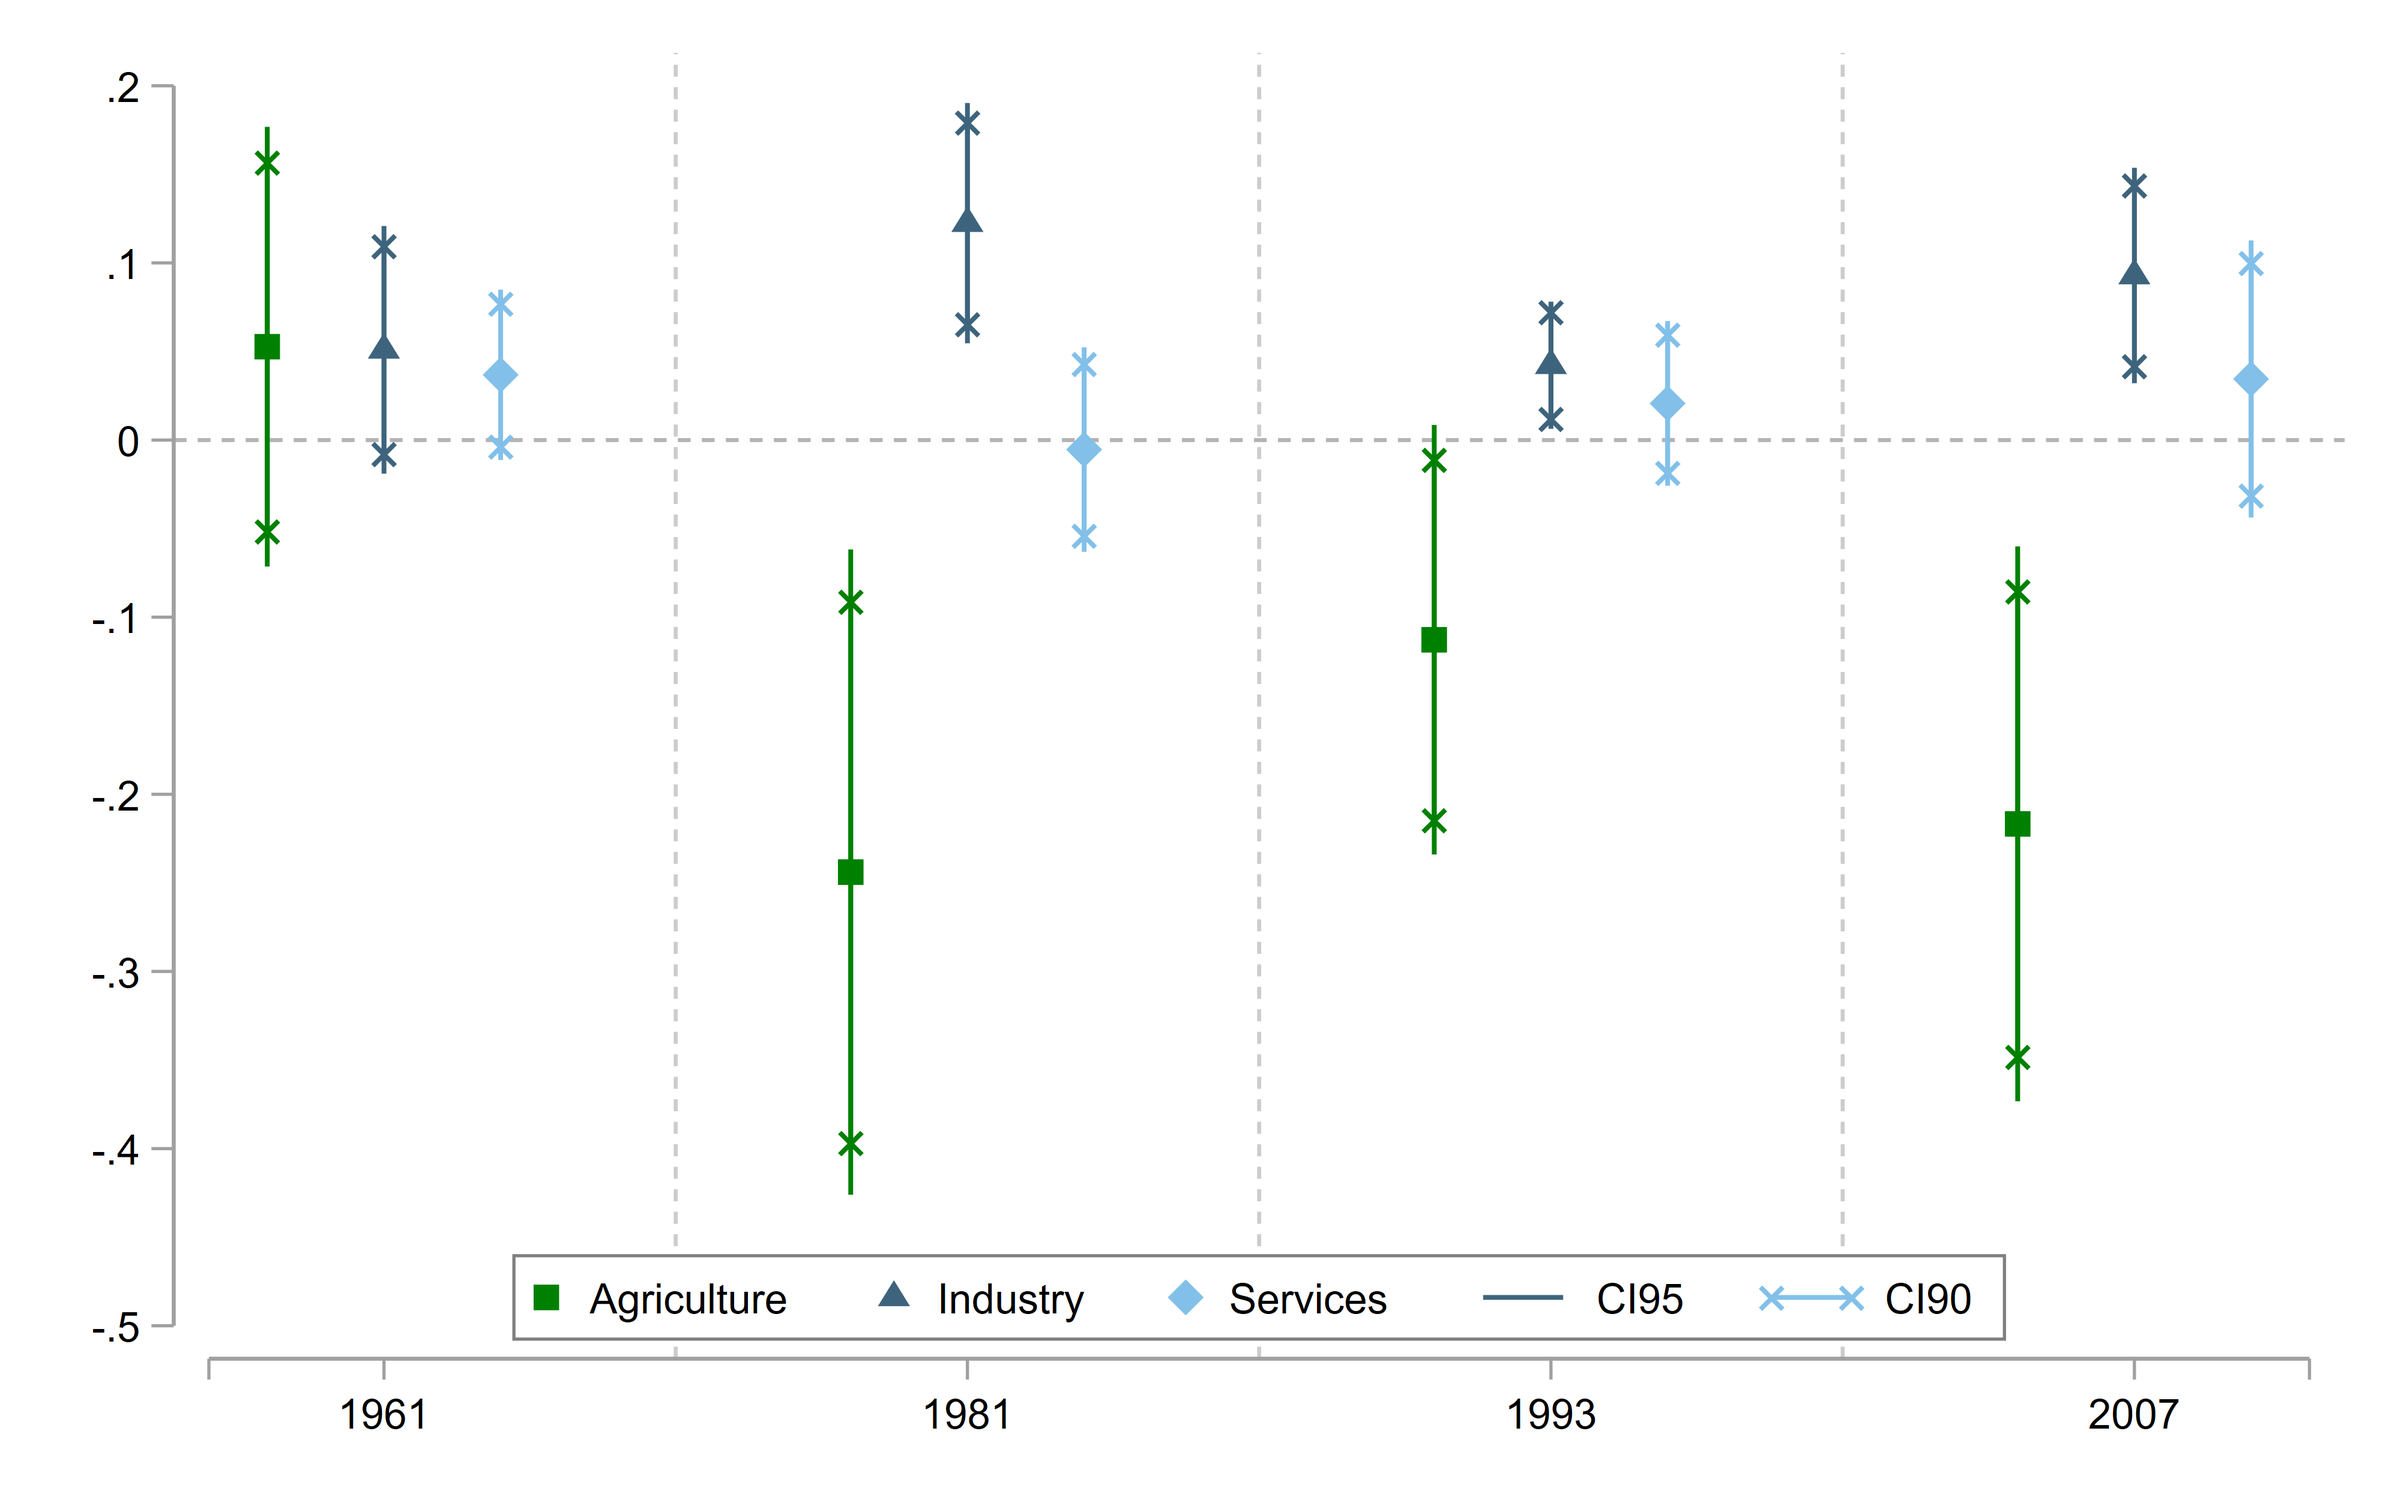
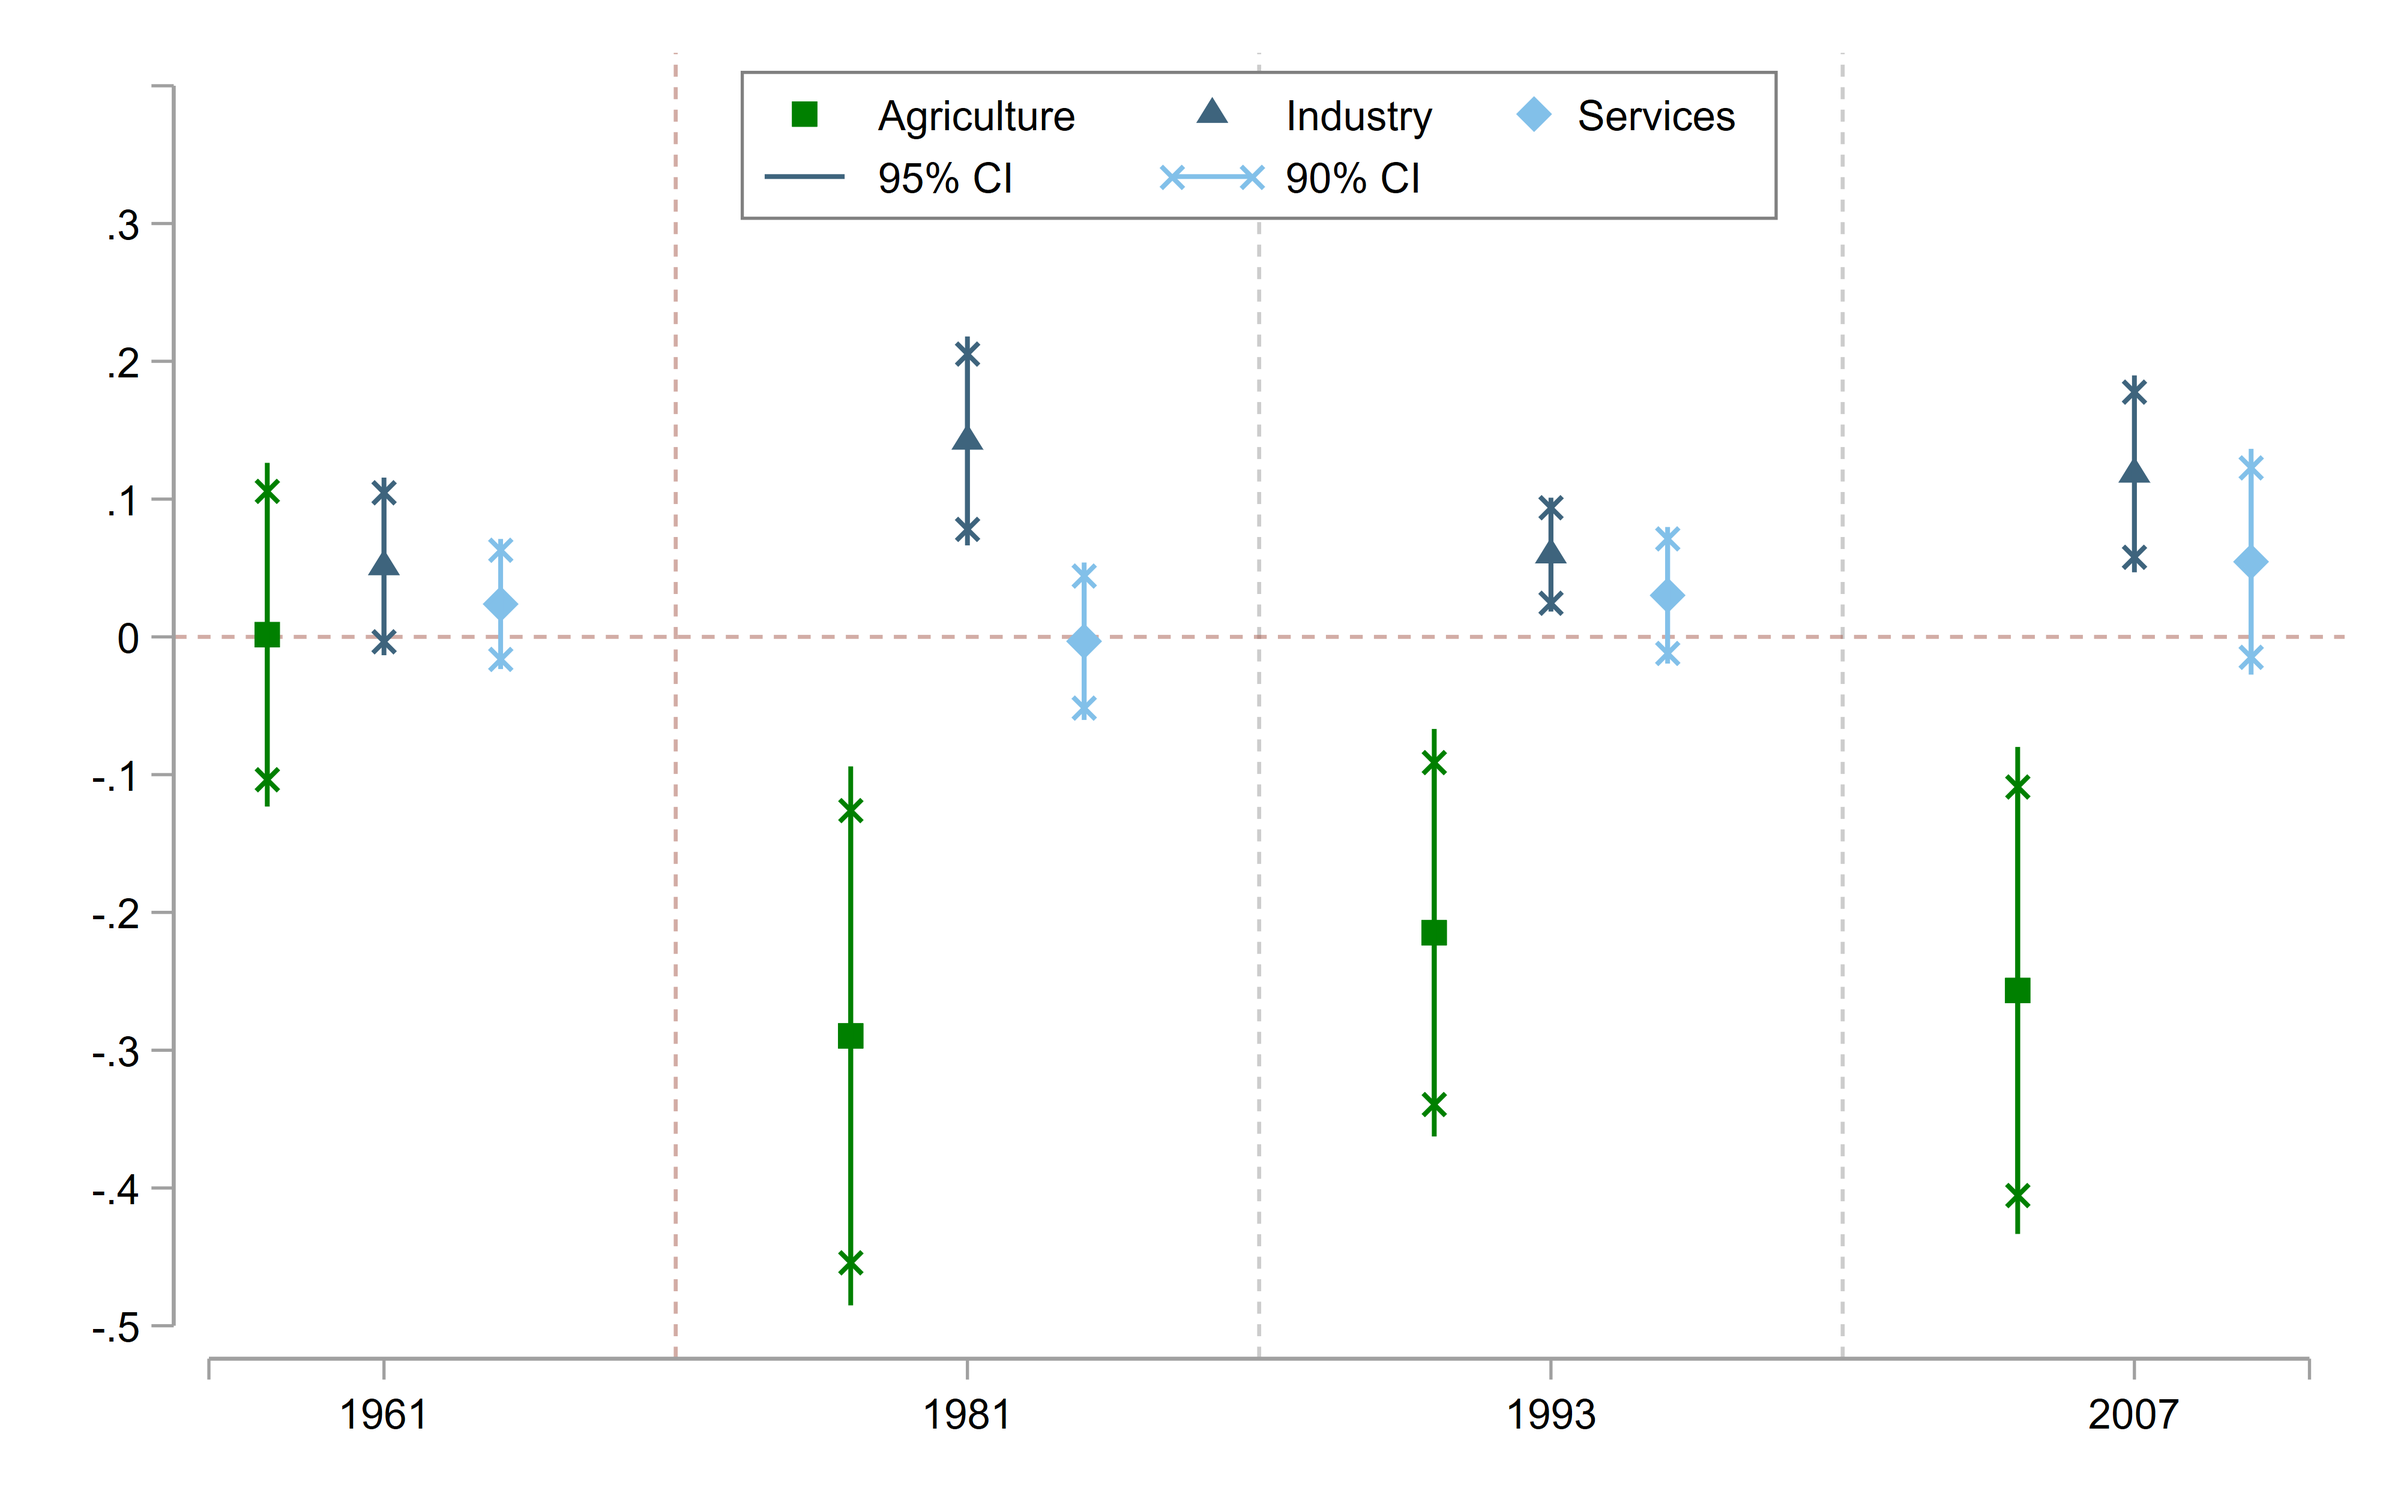
Add mining paper figures and update land reform figures

diff --git a/papers.html b/papers.html
@@ -24,36 +24,46 @@
              mines, while abroad PM2.5 increases less than proportionally to production. As mining MNEs are less emission-intensive than domestic ones in low-income countries, the net en-
              vironmental effect is ambiguous: pollution rises through a scale effect but falls through a composition effect. This result gives a more nuanced picture than the pollution haven hy-
              pothesis alone.</p>
-
-<!--                 
-                <div class="key-findings">
-                    <h4>Key Findings:</h4>
-                    <ul>
-                        <li>X1 </li>
-                    </ul>
-                </div>
+               
 
                 <div class="figures-grid">
                     <div class="figure-slide">
                         <div class="figure-container">
-                            <img src="Figures/paper1/figure1.png" alt="Figure 1">
+                            <img src="figures/digging_abroad/mapa_changeVP.png" alt="Figure 1">
                         </div>
-                        <div class="figure-caption">Caption</div>
+                        <div class="figure-caption">The changing geography of mining activity (1990-2010) </div>
                     </div>
                     <div class="figure-slide">
                         <div class="figure-container">
-                            <img src="Figures/paper1/figure2.png" alt="Figure 2">
+                            <img src="figures/digging_abroad/Fact1b_prod_by_income.png" alt="Figure 2">
                         </div>
-                        <div class="figure-caption">Caption</div>
+                        <div class="figure-caption">The changing geography of mining activity (1990-2010)</div>
                     </div>
                     <div class="figure-slide">
                         <div class="figure-container">
-                            <img src="Figures/paper1/figure3.png" alt="Figure 3">
+                            <img src="figures/digging_abroad/mapnew_prod_info.png" alt="Figure 3">
                         </div>
-                        <div class="figure-caption">Caption</div>
+                        <div class="figure-caption">Mining data</div>
+                    </div>
+                    <div class="figure-slide">
+                        <div class="figure-container">
+                            <img src="figures/digging_abroad/channels.png" alt="Figure 3">
+                        </div>
+                        <div class="figure-caption">Mining Environmental regulation in the presence of MNEs</div>
+                    </div>
+                    <div class="figure-slide">
+                        <div class="figure-container">
+                            <img src="figures/digging_abroad/tri_releases_stack.png" alt="Figure 3">
+                        </div>
+                        <div class="figure-caption">The policy on releases disclosure </div>
+                    </div>
+                    <div class="figure-slide">
+                        <div class="figure-container">
+                            <img src="figures/digging_abroad/World_minelvl_DDD_Prod_NEVO.png" alt="Figure 3">
+                        </div>
+                        <div class="figure-caption">Output on foreign mines</div>
                     </div>
                 </div>
--->
             </div>
         </div>
 
